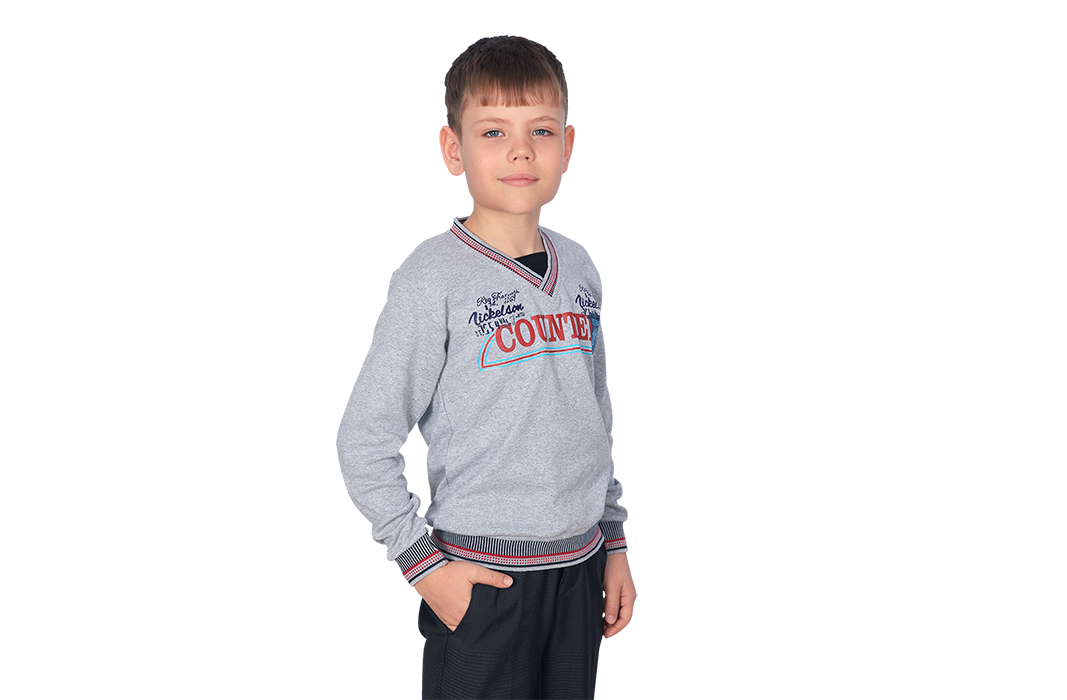
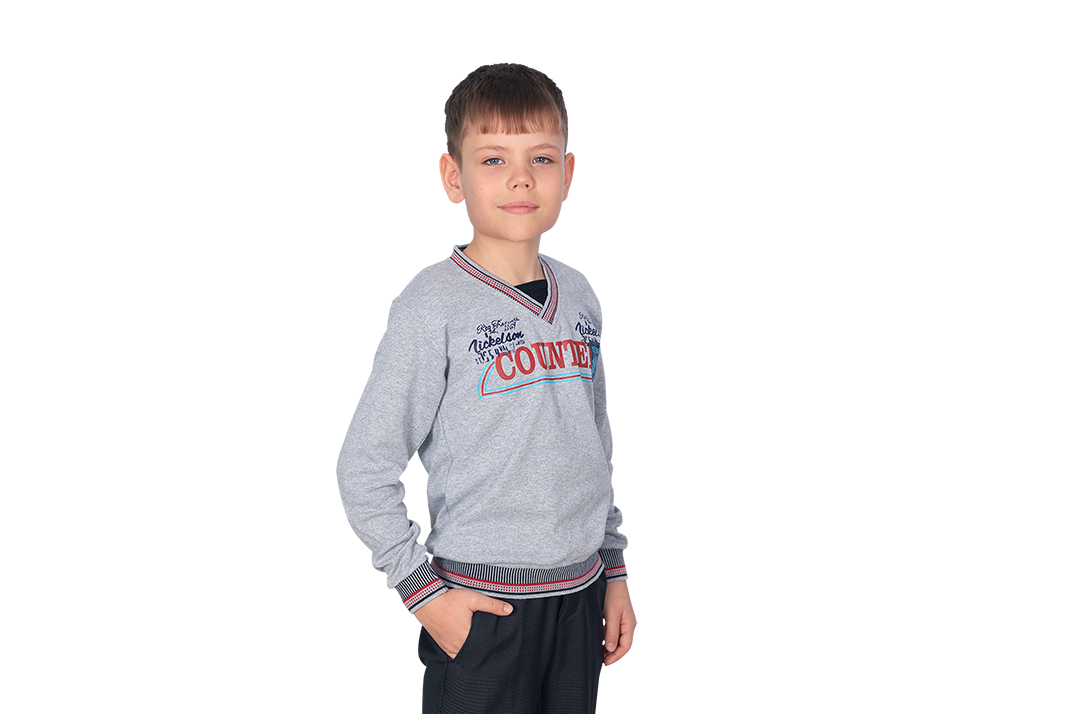
2104

Changed region(s): [[0.3093, 0.03, 0.6186, 0.96]]

diff --git a/catalog/2104/2104.html b/catalog/2104/2104.html
@@ -1,3 +1,4 @@
+
 <!DOCTYPE html>
 <html lang="ru">
  <head>
@@ -10,9 +11,12 @@
  </head>
  <body style="display: flex;
     justify-content: center;
-    align-items: center;">
-  <div class="scene" id="scene" data-hover-only="true">
-   <div data-depth="0.7">
+    align-items: center; 
+    height: 100vh">
+  <div class="scene" id="scene" data-hover-only="true" 
+  style="height: 700px;
+         width: 1067px;">
+   <div data-depth="0.65">
     <img src="img/2104_52.png"/>
    </div>
    <div data-depth="0.65">
@@ -133,9 +137,9 @@
       transform: translate3d(0px, 0px, 0px);
       transform-style: preserve-3d;
       backface-visibility: hidden;
-      display: block;left: 0px;top: 0px;height: 99%;width: 100%;
-      margin-top: -200px;
-      margin-left: -200px;
+      display: block;left: 0px;top: 0px;height: 90%;width: 92%;
+      margin-top: -170px;
+      margin-left: -170px;
       border-color: #ffffff;">
 
     </div>
